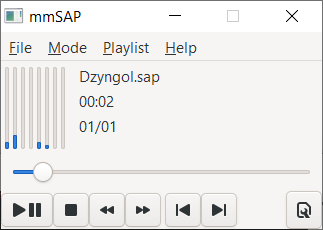
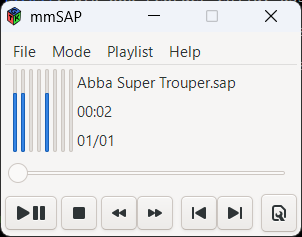
Refine UI - consistent margins and layout. Some labels reworded. ASAP 8.0.0 - ensure the player compiles with the latest ASAP library

Changed region(s): [[0.0, 0.0, 1.0, 1.0], [0.149, 0.1826, 0.6854, 0.2739], [0.4768, 0.0609, 0.5662, 0.0913]]

diff --git a/src/mmsap.cc b/src/mmsap.cc
@@ -1,5 +1,5 @@
 /* 
-   mmSAP-win32  v3.0.3
+   mmSAP-win32  v3.0.4
    
    SAP (Slight atari player) player based on ASAP library
    Copyright (C) 2009-2023 Michael Kalouš <zylon@post.cz>
@@ -29,7 +29,7 @@
 #include "playlist.h"
 #include "asma.h"
 
-#define MMSAP_VERSION_STRING "mmSAP 3.0.3"
+#define MMSAP_VERSION_STRING "mmSAP 3.0.4"
 
 
 /*Prototypes*/

diff --git a/README.md b/README.md
@@ -59,13 +59,13 @@ Compiling and installing under GNU/Linux
    
 Compiling and installing under Microsoft Windows
 ================================================
-In general, it is recommended to use the available binary packages.
+In general, it is recommended to use the available 64-bit binary package.
 
 If you need to build mmSAP from the source code, follow these steps:
 
    * Install MSYS2, Software Distribution and Building Platform for Windows, available at https://www.msys2.org
    * Install all dependencies using the pacman tool shipped with MSYS2. Note: The xxd tool is typically shipped as a part of the vim package
-   * Run the mingw32 shell shipped with MSYS2
+   * Run the mingw64 shell shipped with MSYS2
    * Change working directory to the directory with mmSAP sources and invoke the following commands:
    
          cmake -G "MSYS Makefiles" .
